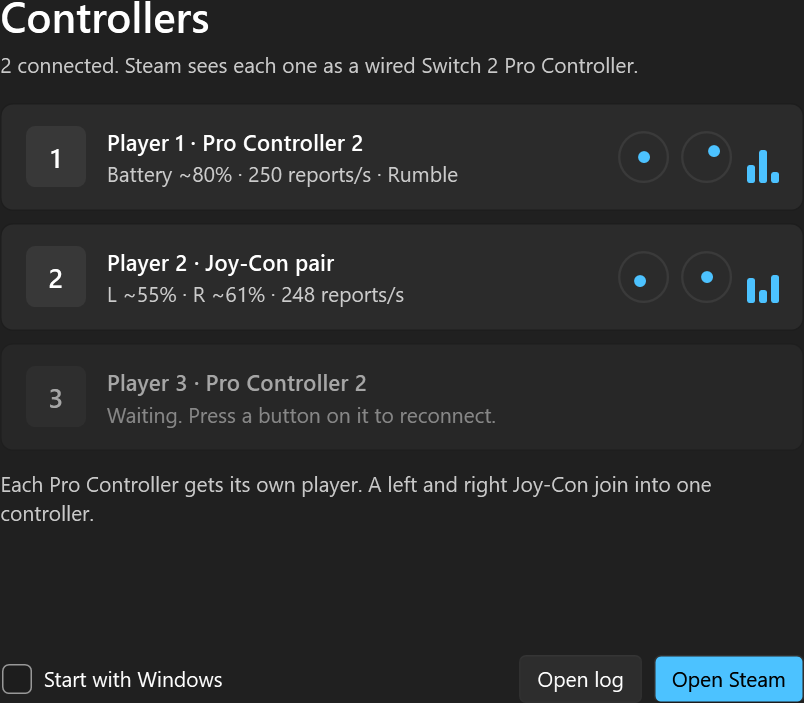
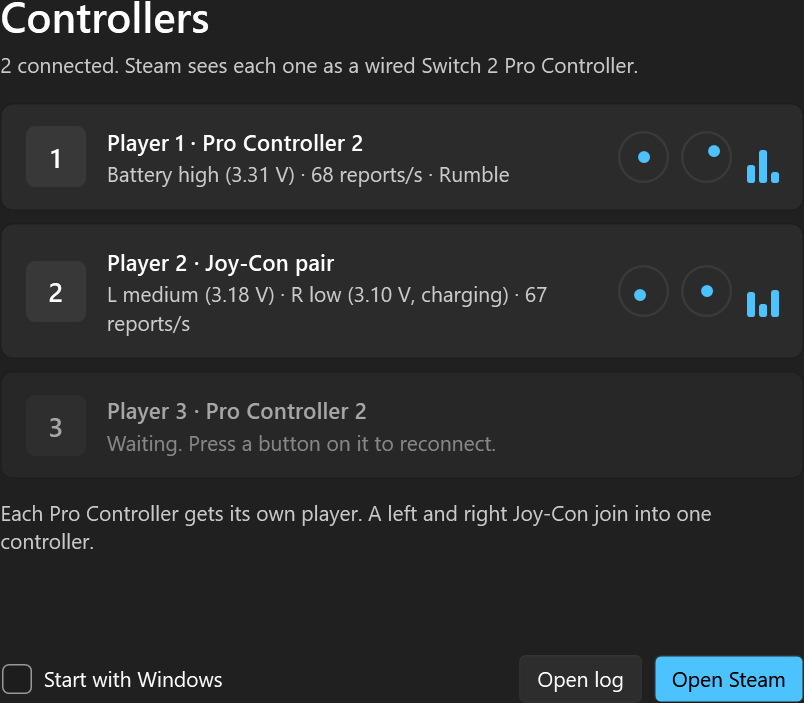
Show battery as a level with voltage and charging state
The Switch 2 reports battery voltage in mV (input report 0x05, byte 0x1F)
and a charging state at 0x21, but Nintendo's voltage-to-percent curve isn't
public: the old 3.5-4.1 V guess put a working 3.1 V controller at 0%.
Show high/medium/low using switch2controllerpc's measured thresholds, the
voltage itself, and charging.

diff --git a/StatusWindow.xaml b/StatusWindow.xaml
@@ -43,7 +43,7 @@
 
                                     <StackPanel Grid.Column="1" Margin="14,0,12,0" VerticalAlignment="Center">
                                         <TextBlock Text="{Binding Title}" FontSize="15" FontWeight="SemiBold" />
-                                        <TextBlock Text="{Binding Detail}" Margin="0,2,0,0" TextTrimming="CharacterEllipsis"
+                                        <TextBlock Text="{Binding Detail}" Margin="0,2,0,0" TextWrapping="Wrap"
                                                    Foreground="{DynamicResource TextFillColorSecondaryBrush}" />
                                     </StackPanel>
 

diff --git a/VirtualPad.cs b/VirtualPad.cs
@@ -70,7 +70,7 @@ sealed class VirtualPad : IDisposable
 
     // Status-window figures per controller: reports seen, battery millivolts, and the
     // report rate measured over the last full second.
-    readonly Dictionary<ControllerKind, (long Reports, int BatteryMv)> _seen = [];
+    readonly Dictionary<ControllerKind, (long Reports, int BatteryMv, byte ChargeState)> _seen = [];
     readonly Dictionary<ControllerKind, (long Reports, long Ticks, int Rate)> _rateWindow = [];
     long _lastRumbleTicks;
     readonly HashSet<ControllerKind> _batteryLogged = [];
@@ -139,7 +139,8 @@ sealed class VirtualPad : IDisposable
                     _rateWindow[kind] = window = (seen.Reports, now,
                         (int)Math.Round((seen.Reports - window.Reports) * 1000.0 / (now - window.Ticks)));
                 int rate = live != null ? window.Rate : 0;
-                sides.Add(new SideStatus(name, live != null, live != null && seen.BatteryMv > 0 ? BatteryPercent(seen.BatteryMv) : null, rate));
+                sides.Add(new SideStatus(name, live != null, live != null && seen.BatteryMv > 0 ? seen.BatteryMv : null,
+                    live != null && seen.ChargeState != 0, rate));
             }
             if (IsJoyConPad)
             {
@@ -162,8 +163,6 @@ sealed class VirtualPad : IDisposable
         }
     }
 
-    /// <summary>A rough charge estimate from cell voltage (Li-ion, 3.5 V empty to 4.1 V full).</summary>
-    static int BatteryPercent(int millivolts) => Math.Clamp((int)Math.Round((millivolts - 3500) / 6.0), 0, 100);
 
     public bool Owns(ulong address) => ProAddress == address || LeftAddress == address || RightAddress == address;
 
@@ -223,10 +222,12 @@ sealed class VirtualPad : IDisposable
         lock (_gate)
         {
             _seen.TryGetValue(kind, out var seen);
-            _seen[kind] = (seen.Reports + 1, BitConverter.ToUInt16(report, BatteryAt));
+            // 0x1F: battery voltage in mV; 0x21: charging state, non-zero on USB power
+            // (switch2_controller_research, hid_reports.md, input report 0x05).
+            _seen[kind] = (seen.Reports + 1, BitConverter.ToUInt16(report, BatteryAt), report[BatteryAt + 2]);
             if (_batteryLogged.Add(kind))
-                Log.Info($"Player {Number} {kind}: battery bytes {Convert.ToHexString(report, BatteryAt, 4)} " +
-                    $"= {BitConverter.ToUInt16(report, BatteryAt)} mV, current {BitConverter.ToInt16(report, BatteryAt + 2)} (raw).");
+                Log.Info($"Player {Number} {kind}: battery {BitConverter.ToUInt16(report, BatteryAt)} mV, " +
+                    $"charging state 0x{report[BatteryAt + 2]:X2}.");
             if (kind == ControllerKind.ProController) report.AsSpan(0, Math.Min(report.Length, ReportLength)).CopyTo(_merged);
             else
             {

diff --git a/StatusWindow.xaml.cs b/StatusWindow.xaml.cs
@@ -5,7 +5,18 @@ using System.Windows.Threading;
 
 namespace Switch2Bridge;
 
-sealed record SideStatus(string Name, bool Live, int? BatteryPercent, int ReportsPerSecond);
+sealed record SideStatus(string Name, bool Live, int? BatteryMv, bool Charging, int ReportsPerSecond)
+{
+    /// <summary>Nintendo's own voltage-to-level curve isn't public; these are the thresholds
+    /// switch2controllerpc's authors settled on from real controllers.</summary>
+    public string? BatteryLevel => BatteryMv switch
+    {
+        null => null,
+        > 3250 => "high",
+        > 3125 => "medium",
+        _ => "low",
+    };
+}
 
 sealed record PadStatus(int Number, string Name, IReadOnlyList<SideStatus> Sides,
     double LX, double LY, double RX, double RY, double[] Gyro, bool Rumbling);
@@ -118,7 +129,8 @@ sealed class PadView : INotifyPropertyChanged
         {
             var prefix = s.Sides.Count > 1 ? side.Name + " " : "Battery ";
             if (!side.Live) parts.Add($"{side.Name} not connected");
-            else if (side.BatteryPercent is int pct) parts.Add($"{prefix}~{pct}%");
+            else if (side.BatteryMv is int mv)
+                parts.Add($"{prefix}{side.BatteryLevel} ({mv / 1000.0:0.00} V{(side.Charging ? ", charging" : "")})");
         }
         int rate = s.Sides.Where(x => x.Live).Select(x => x.ReportsPerSecond).DefaultIfEmpty(0).Max();
         if (rate > 0) parts.Add($"{rate} reports/s");

diff --git a/Preview.cs b/Preview.cs
@@ -40,9 +40,9 @@ static class Preview
 
     static PadStatus[] Samples() =>
     [
-        new(1, "Pro Controller 2", [new SideStatus("Pro", true, 80, 250)], 0.5, 0.5, 0.7, 0.35, [0.3, 0.6, 0.15], true),
-        new(2, "Joy-Con pair", [new SideStatus("L", true, 55, 248), new SideStatus("R", true, 61, 247)], 0.4, 0.6, 0.5, 0.5, [0.45, 0.2, 0.5], false),
-        new(3, "Pro Controller 2", [new SideStatus("Pro", false, null, 0)], 0.5, 0.5, 0.5, 0.5, [0, 0, 0], false),
+        new(1, "Pro Controller 2", [new SideStatus("Pro", true, 3310, false, 68)], 0.5, 0.5, 0.7, 0.35, [0.3, 0.6, 0.15], true),
+        new(2, "Joy-Con pair", [new SideStatus("L", true, 3180, false, 67), new SideStatus("R", true, 3102, true, 66)], 0.4, 0.6, 0.5, 0.5, [0.45, 0.2, 0.5], false),
+        new(3, "Pro Controller 2", [new SideStatus("Pro", false, null, false, 0)], 0.5, 0.5, 0.5, 0.5, [0, 0, 0], false),
     ];
 
     static void Render(App app, Func<PadStatus[]> players, string file)

diff --git a/README.md b/README.md
@@ -66,7 +66,7 @@ dotnet publish -c Release -o release
 ## Known limits
 
 - Steam may label the device "Nintendo Switch Pro Controller" rather than "Switch 2".
-- Battery percentages are estimated from cell voltage.
+- Battery: the bridge passes the controller's real voltage to Steam, but Steam's Switch 2 support (SDL) doesn't read battery for this controller, so Steam may show none. The status window shows high/medium/low from voltage, because Nintendo's voltage-to-percent curve isn't public.
 - Joy-Con support follows the same protocol as the Pro Controller, but has had less real-world testing.
 - Headset audio, NFC and the magnetometer aren't passed through (HIDMaestro's persona doesn't emulate them).
 
